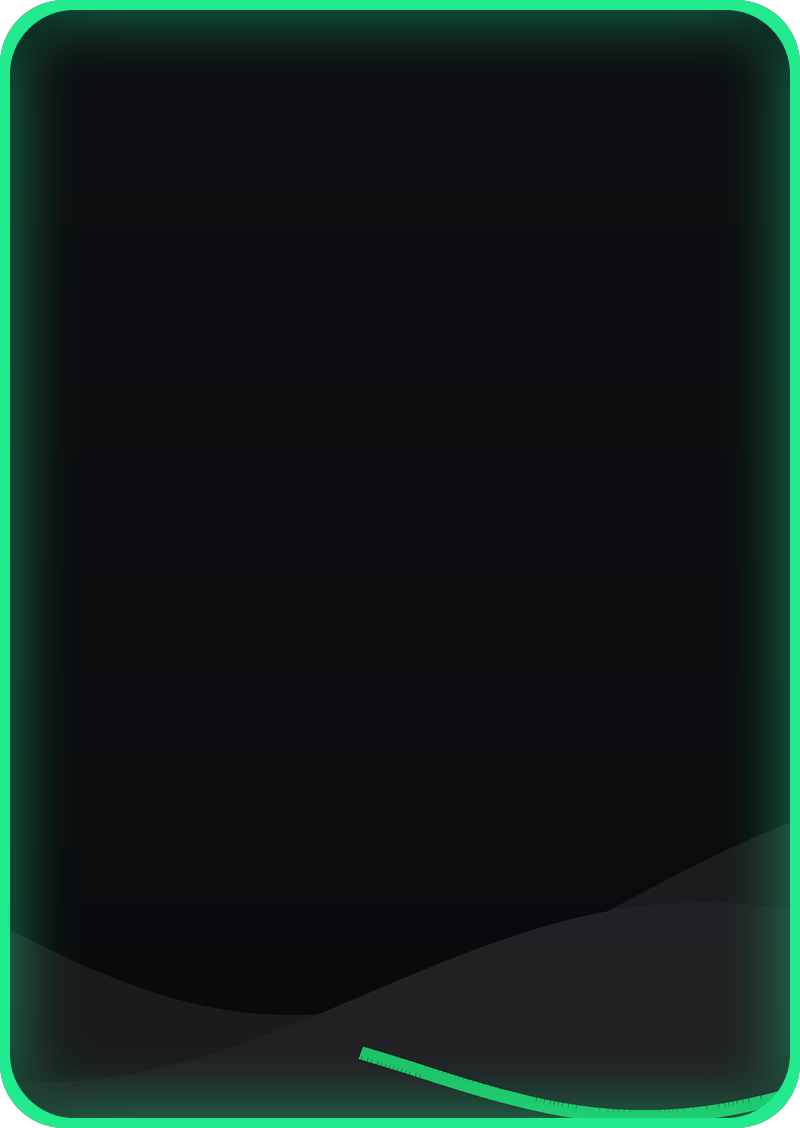
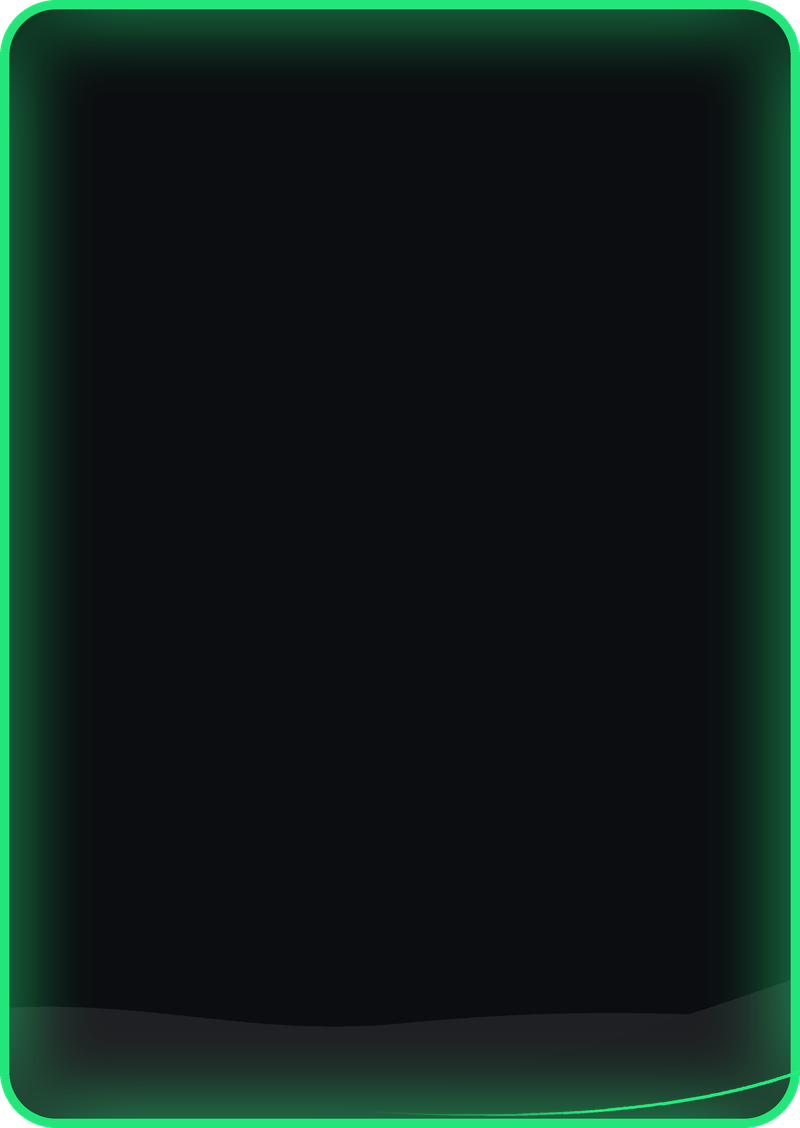
MediaHere for Windows 1.1.2: redraw home cards to match the design
Claude-Session: https://claude.ai/code/session_01Kckagess5iiSDfmn2JtSuT

diff --git a/windows/CHANGELOG.md b/windows/CHANGELOG.md
@@ -3,6 +3,11 @@
 All notable changes to the Windows edition are listed here. The section for each version is shown
 to users inside the app when an update is available.
 
+## v1.1.2 — 2026-11-06
+
+### Changed
+- Live TV and Video on Demand cards redrawn to match the design: smooth green swoosh instead of a stray line.
+
 ## v1.1.1 — 2026-11-06
 
 ### Changed
